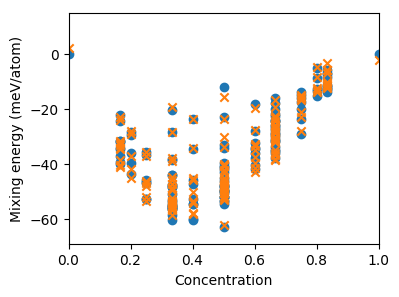
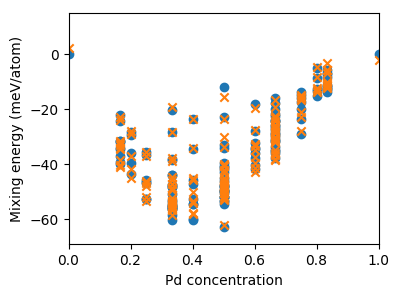
DOC: extended MC tutorial

Changed region(s): [[0.391, 0.9091, 0.7218, 0.9697]]

diff --git a/tutorial/basic/6_analyze_monte_carlo.py b/tutorial/basic/6_analyze_monte_carlo.py
@@ -1,0 +1,64 @@
+from glob import glob
+from mchammer import DataContainer
+import matplotlib.pyplot as plt
+import pandas as pd
+
+# step 1: Collect data
+data = {}
+for fname in sorted(glob('sgc*.dc')):
+    dc = DataContainer.read(fname)
+    row = dc.data.T[0]
+    nsites = row['Pd_count'] + row['Ag_count']
+
+    temperature = row['temperature']
+    if temperature not in data:
+        data[temperature] = {'dmu': [], 'concentration': [],
+                             'mixing_energy': [], 'acceptance_ratio': []}
+
+    dmu = row['mu_Pd'] - row['mu_Ag']
+    data[temperature]['dmu'].append(dmu)
+
+    conc = dc.get_average('Pd_count')[0] / nsites
+    data[temperature]['concentration'].append(conc)
+
+    emix = dc.get_average('potential')[0] / nsites
+    data[temperature]['mixing_energy'].append(emix)
+
+    accratio = dc.get_average('acceptance_ratio')[0]
+    data[temperature]['acceptance_ratio'].append(accratio)
+
+# step 2: Plot chemical potential difference vs composition
+fig, ax = plt.subplots(figsize=(4, 3.5))
+ax.set_xlabel('Pd concentration')
+ax.set_ylabel('Chemical potential difference (meV/atom)')
+ax.set_xlim([-0.02, 1.02])
+for temperature, series in reversed(sorted(data.items())):
+    series = pd.DataFrame.from_dict(series).sort_values('dmu')
+    ax.plot(series['concentration'], 1e3*series['dmu'],
+            marker='o', markersize=2.5, label='{} K'.format(temperature))
+plt.legend()
+plt.savefig('chemical_potential_difference.png', bbox_inches='tight')
+
+# step 3: Plot mixing energy
+fig, ax = plt.subplots(figsize=(4, 3.5))
+ax.set_xlabel('Pd concentration')
+ax.set_ylabel('Mixing energy (meV/atom)')
+ax.set_xlim([-0.02, 1.02])
+for temperature, series in reversed(sorted(data.items())):
+    series = pd.DataFrame.from_dict(series).sort_values('dmu')
+    ax.plot(series['concentration'], 1e3*series['mixing_energy'],
+            marker='o', markersize=2.5, label='{} K'.format(temperature))
+plt.legend()
+plt.savefig('mixing_energy.png', bbox_inches='tight')
+
+# step 4: Plot acceptance ratio
+fig, ax = plt.subplots(figsize=(4, 3.5))
+ax.set_xlabel('Pd concentration')
+ax.set_ylabel('Acceptance ratio')
+ax.set_xlim([-0.02, 1.02])
+for temperature, series in reversed(sorted(data.items())):
+    series = pd.DataFrame.from_dict(series).sort_values('dmu')
+    ax.plot(series['concentration'], series['acceptance_ratio'],
+            marker='o', markersize=2.5, label='{} K'.format(temperature))
+plt.legend()
+plt.savefig('acceptance_ratio.png', bbox_inches='tight')

diff --git a/tutorial/basic/5_run_monte_carlo.py b/tutorial/basic/5_run_monte_carlo.py
@@ -28,16 +28,16 @@ for temperature in [900, 600, 300]:
                              chemical_symbols[1]: 0})
 
     # Evolve configuration through the entire composition range
-    for dmu in arange(-0.6, 0.53, 0.04):
+    for dmu in arange(-0.6, 0.51, 0.05):
         mc.chemical_potentials = {chemical_symbols[0]: 0,
                                   chemical_symbols[1]: dmu}
 
         # equilibration run
-        mc.run(number_of_trial_steps=400)
+        mc.run(number_of_trial_steps=len(atoms)*8)
 
         # production run
         mc.reset_data_container()
-        mc.run(number_of_trial_steps=1000)
+        mc.run(number_of_trial_steps=len(atoms)*20)
         # TODO: change the next line (and the tutorial) once mc.data_container
         # is writable
         mc.data_container.write('sgc-T{}-dmu{:.3f}.dc'

diff --git a/tutorial/basic/2_compare_to_target_data.py b/tutorial/basic/2_compare_to_target_data.py
@@ -16,7 +16,7 @@ for row in db.select('natoms<=6'):
 
 # step 2: Plot results
 fig, ax = plt.subplots(figsize=(4, 3))
-ax.set_xlabel(r'Concentration')
+ax.set_xlabel(r'Pd concentration')
 ax.set_ylabel(r'Mixing energy (meV/atom)')
 ax.set_xlim([0, 1])
 ax.set_ylim([-69, 15])

diff --git a/doc/userguide/source/basic/analyze_monte_carlo.rst b/doc/userguide/source/basic/analyze_monte_carlo.rst
@@ -1,0 +1,76 @@
+.. _tutorial_monte_carlo_analysis:
+.. highlight:: python
+.. index::
+   single: Tutorial; Analyze Monte Carlo simulations
+
+Analyze Monte Carlo simulations
+===============================
+
+After the :ref:`Monte Carlo simulations <tutorial_monte_carlo_simulations>`
+have finished, they can be analyzed in various ways. It is convenient first to
+collect all data in a convenient format.
+
+.. literalinclude:: ../../../../tutorial/basic/6_analyze_monte_carlo.py
+   :start-after: # step 1
+   :end-before: # step 2
+
+Now we can easily plot the chemical potential difference as a function of
+composition. Here, we use a `pandas DataFrame object
+<https://pandas.pydata.org/pandas-docs/stable/generated/pandas.DataFrame.html>`_,
+which provides us with a very simple means to sort the data.
+
+.. literalinclude:: ../../../../tutorial/basic/6_analyze_monte_carlo.py
+   :start-after: # step 2
+   :end-before: # step 3
+
+.. figure:: _static/chemical_potential_difference.png
+
+  Chemical potential difference as a function of concentration from Monte Carlo
+  simulations in the semi-grandcanonical ensemble.
+
+In the resulting figure one observes a gap in the :math:`\Delta\mu` vs
+composition plot at concentrations around 85% Pd, which indicates a very
+assymmetric miscibility gap and in qualitative agreement with `experimental
+assessments of the phase diagram
+<http://resource.npl.co.uk/mtdata/phdiagrams/agpd.htm>`_. In the latter the
+miscibility gap closes, however, already at just above 600 K. This quantitative
+discrepancy can originate from a number of factors including, in approximately
+decreasing order of importance, the exchange-correlation functional used in the
+density functional theory calculations, the accuracy of the cluster expansion,
+vibrational contributions, etc.
+
+It can also be instructive to plot the mixing energy.
+
+.. literalinclude:: ../../../../tutorial/basic/6_analyze_monte_carlo.py
+   :start-after: # step 3
+   :end-before: # step 4
+
+.. figure:: _static/mixing_energy.png
+
+  Mixing energy as a function of concentration from Monte Carlo simulations in
+  the semi-grandcanonical ensemble.
+
+Furthermore one might want to consider for example the acceptance rates.
+
+.. literalinclude:: ../../../../tutorial/basic/6_analyze_monte_carlo.py
+   :start-after: # step 4
+
+.. figure:: _static/acceptance_ratio.png
+
+  Acceptance ratio as a function of concentration from Monte Carlo simulations
+  in the semi-grandcanonical ensemble.
+
+As expected the acceptance rate increases with temperature and is maximal for
+intermediate concentrations.
+
+Source code
+-----------
+
+.. container:: toggle
+
+    .. container:: header
+
+       The complete source code is available in
+       ``tutorial/basic/6_analyze_monte_carlo.py``
+
+    .. literalinclude:: ../../../../tutorial/basic/6_analyze_monte_carlo.py

diff --git a/doc/userguide/source/basic/run_monte_carlo.rst b/doc/userguide/source/basic/run_monte_carlo.rst
@@ -33,7 +33,7 @@ for equilibration is shortened.
    :start-after: # step 2
 
 On an Intel i7-950 CPU the set up of the calculator takes about 10 seconds,
-whereas the Monte Carlo simulation takes about 70 seconds for each data point.
+whereas the Monte Carlo simulation takes about 0.2 seconds per MC trial step.
 
 Source code
 -----------

diff --git a/doc/userguide/source/basic/index.rst b/doc/userguide/source/basic/index.rst
@@ -32,3 +32,4 @@ results.
    :maxdepth: 1
 
    run_monte_carlo
+   analyze_monte_carlo
